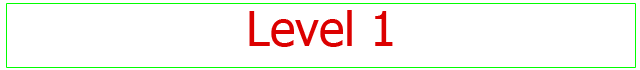
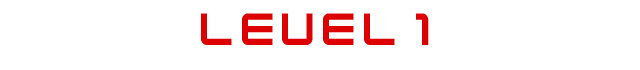
Dorađeni elementi grafičkog sučelja izbornika.

Changed region(s): [[0.3125, 0.1429, 0.6875, 0.6857], [0.0, 0.9429, 1.0, 0.9714], [0.0, 0.0286, 1.0, 0.0571]]

diff --git a/Zavrsni/sucelje.py b/Zavrsni/sucelje.py
@@ -2,7 +2,7 @@
 
 class sucelje(object):
     """Definiranje korisniskog su?elja"""
-    def __init__(self, visina, sirina, POV, ikonaHover, ikonaLvl1, ikonaLvl2, ikonaLvl3, ikonaGlavni, ikonaPredjen, upgradeHover, startHover):
+    def __init__(self, visina, sirina, POV, ikonaLvl1, ikonaLvl2, ikonaLvl3, ikonaGlavni, ikonaPredjen, upgradeHover, startHover):
         self.visina = visina
         self.sirina = sirina
         self.brojRedova = 0
@@ -26,7 +26,6 @@ class sucelje(object):
         self.audioRect = None
         self.ikonaStart_H = startHover
         self.upgradeHover = upgradeHover
-        self.menuHover = ikonaHover
         self.menuLvl1 = ikonaLvl1
         self.Lvl1Rect = self.menuLvl1.get_rect()
         self.menuLvl2 = ikonaLvl2
@@ -84,17 +83,11 @@ class sucelje(object):
             lijevo, gore = self.lijevoGore(poljex, poljey)
             pygame.draw.rect(self.POVRSINA, (60,  60, 100), (lijevo, gore, self.visina/self.brojRedova, self.sirina/self.brojStupaca), 3)
         elif x is not None and y is not None \
-            and self.toranj1Rect is not None \
-            and self.toranj2Rect is not None \
-            and self.toranj3Rect is not None \
             and self.toranj1_uRect is not None \
             and self.toranj2_uRect is not None \
             and self.toranj3_uRect is not None \
-            and self.snajperRect is not None \
             and self.snajper_uRect is not None \
-            and self.mitraljezRect is not None \
-            and self.mitraljez_uRect is not None \
-            and self.startRect is not None:
+            and self.mitraljez_uRect is not None:
            if self.toranj1_uRect.collidepoint(x, y):
                self.POVRSINA.blit (self.upgradeHover, self.toranj1_uRect)
            elif self.toranj2_uRect.collidepoint(x, y):
@@ -158,13 +151,18 @@ class sucelje(object):
         self.POVRSINA.blit(self.menuLvl2, self.Lvl2Rect)
         self.POVRSINA.blit(self.menuLvl3, self.Lvl3Rect)
 
-    def hoverGlavniMenu(self, x, y):
+    def gumbGlavniMenu(self, gumb):
+        self.POVRSINA.blit(gumb, self.Lvl1Rect)
+        self.POVRSINA.blit(gumb, self.Lvl2Rect)
+        self.POVRSINA.blit(gumb, self.Lvl3Rect)
+
+    def klikGlavniMenu(self, x, y, gumb):
         if self.Lvl1Rect.collidepoint(x, y):
-            self.POVRSINA.blit(self.menuHover, self.Lvl1Rect)
+            self.POVRSINA.blit(gumb, self.Lvl1Rect)
         elif self.Lvl2Rect.collidepoint(x, y):
-            self.POVRSINA.blit(self.menuHover, self.Lvl2Rect)
+            self.POVRSINA.blit(gumb, self.Lvl2Rect)
         elif self.Lvl3Rect.collidepoint(x, y):
-            self.POVRSINA.blit(self.menuHover, self.Lvl3Rect)
+            self.POVRSINA.blit(gumb, self.Lvl3Rect)
 
     def kliknutoGlavniMenu(self, x, y):
         if self.Lvl1Rect.collidepoint(x, y):
@@ -296,13 +294,17 @@ class sucelje(object):
 
     def CrtajPobjedu(self):
         self.ikonaPredjenRect.x = 100
-        self.ikonaPredjenRect.y = 50
+        self.ikonaPredjenRect.y = 10
         self.POVRSINA.blit(self.ikonaPredjen, self.ikonaPredjenRect)
         self.ikonaGlavniRect.x = 100
         self.ikonaGlavniRect.y = 50 + 120 + 50
         self.POVRSINA.blit(self.ikonaGlavni, self.ikonaGlavniRect)
 
-    def kliknutoPobjeda(self, x, y):
+    def gumbPobjeda(self, gumb):
+        self.POVRSINA.blit(gumb, self.ikonaGlavniRect)
+
+    def kliknutoPobjeda(self, x, y, gumb):
+        self.POVRSINA.blit(gumb, self.ikonaGlavniRect)
         if self.ikonaGlavniRect.collidepoint(x, y):
             return 1
 
@@ -310,14 +312,10 @@ class sucelje(object):
         if self.startRect.collidepoint(x, y):
             return 1
 
-    def hoverPobjeda(self, x, y):
-        if self.ikonaGlavniRect.collidepoint(x, y):
-            self.POVRSINA.blit(self.menuHover, self.ikonaGlavniRect)
-
     def CrtajIzgubljeno(self, ikona):
         ikonaRect = ikona.get_rect()
         ikonaRect.x = 100
-        ikonaRect.y = 50
+        ikonaRect.y = 10
         self.POVRSINA.blit(ikona, ikonaRect)
         self.ikonaGlavniRect.x = 100
         self.ikonaGlavniRect.y = 50 + 120 + 50

diff --git a/Zavrsni/Zavrsni.py b/Zavrsni/Zavrsni.py
@@ -46,7 +46,8 @@ menuSlika = pygame.image.load('grafika\menu_obrub.png')
 menuLvl1 = pygame.image.load('grafika/menuLvl1.png')
 menuLvl2 = pygame.image.load('grafika/menuLvl2.png')
 menuLvl3 = pygame.image.load('grafika/menuLvl3.png')
-menuHover = pygame.image.load('grafika/menuHover.png')
+menuGumb = pygame.image.load('grafika/menuGumb.png')
+menuStisnuto = pygame.image.load('grafika/menuStisnuto.png')
 predjenLabel = pygame.image.load('grafika/predjenLvl.png')
 glavniMenu = pygame.image.load('grafika/menuGlavni.png')
 toranj1_upgrade = pygame.image.load('grafika/tornjevi/toranj1_upgrade.png')
@@ -126,7 +127,7 @@ def main ():
     pygame.mixer.music.play(-1, 0.0)
 
     lvlSeed = maestro()
-    UI = sucelje(VisinaProzora, SirinaProzora, POVRSINA, menuHover, menuLvl1, menuLvl2, menuLvl3, glavniMenu, predjenLabel, toranj_upgrade_hover, ikonaStart_H)
+    UI = sucelje(VisinaProzora, SirinaProzora, POVRSINA, menuLvl1, menuLvl2, menuLvl3, glavniMenu, predjenLabel, toranj_upgrade_hover, ikonaStart_H)
     mousex = 0
     mousey = 0
     pygame.display.set_caption('Zavrsni')
@@ -143,7 +144,6 @@ def main ():
         kliknuto = False
         for event in pygame.event.get():
             if event.type == QUIT or (event.type == KEYUP and event.key == K_ESCAPE):
-                #pygame.quit()
                 izvrsavaj = False
             if event.type == MOUSEMOTION:
                 mousex, mousey = event.pos
@@ -152,6 +152,7 @@ def main ():
                 kliknuto = True
         if mod == modMenu:
             POVRSINA.blit(naslov, ((0, 0), (840, 480)))
+            UI.gumbGlavniMenu(menuGumb)
             #varijable tornjeva
             #Tetejac
             dmg1 = 10
@@ -189,6 +190,7 @@ def main ():
             cijena5 = 100
             cijenau5 = 50
             if kliknuto:
+                UI.klikGlavniMenu(mousex, mousey, menuStisnuto)
                 odabraniLvl = UI.kliknutoGlavniMenu(mousex, mousey)
                 if odabraniLvl is not None:
                     mod = modIgra
@@ -208,22 +210,24 @@ def main ():
                     lvl = Mapa(grid, VisinaProzora, SirinaProzora, okolis, put_ravno, put_dole, put_kutLD, put_kutDD, put_kraj, put_kraj_D, put_pocetak_D, put_pocetak_G)
                     tornjevi = []
                     GlZgrada = zgrada(POVRSINA, glavnaZgrada, zgradaHP, kraj, VisinaProzora, SirinaProzora, grid)
-            if not kliknuto:
-                UI.hoverGlavniMenu(mousex, mousey)
+            #if not kliknuto:
+                
             UI.crtajGlavniMenu()
         elif mod == modPobjeda:
+
             if kliknuto:
-                if UI.kliknutoPobjeda(mousex, mousey):
+                if UI.kliknutoPobjeda(mousex, mousey, menuStisnuto):
                     mod = modMenu
-            if not kliknuto:
-                UI.hoverPobjeda(mousex, mousey)
+            #if not kliknuto:
+            #    UI.hoverPobjeda(mousex, mousey)
             UI.CrtajPobjedu()
         elif mod == modIzgubljeno:
+            UI.gumbPobjeda(menuGumb)
             if kliknuto:
-                if UI.kliknutoPobjeda(mousex, mousey):
+                if UI.kliknutoPobjeda(mousex, mousey, menuStisnuto):
                     mod = modMenu
-            if not kliknuto:
-                UI.hoverPobjeda(mousex, mousey)
+            #if not kliknuto:
+            #    UI.hoverPobjeda(mousex, mousey)
             UI.CrtajIzgubljeno(izgubljenoSlika)
         elif mod == modIgra:
             UI.menuObrub(menuSlika)
